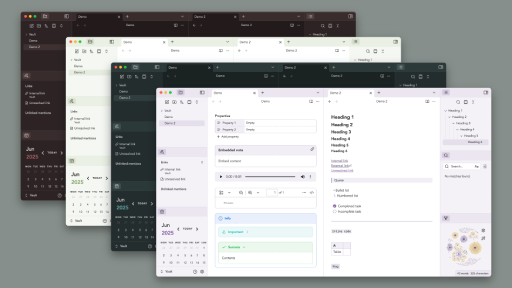
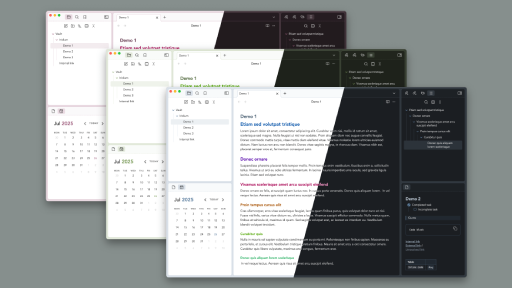
Add files via upload

diff --git a/README.md b/README.md
@@ -1,6 +1,5 @@
 # Iridium
 ![](Images/cover.png)
-![](Images/light.png)
-![](Images/dark.png)
-![](Images/light-purple.png)
-![](Images/dark-purple.png)
+![](Images/default.png)
+![](Images/style-settings.png)
+![](Images/saturation-lightness.png)
